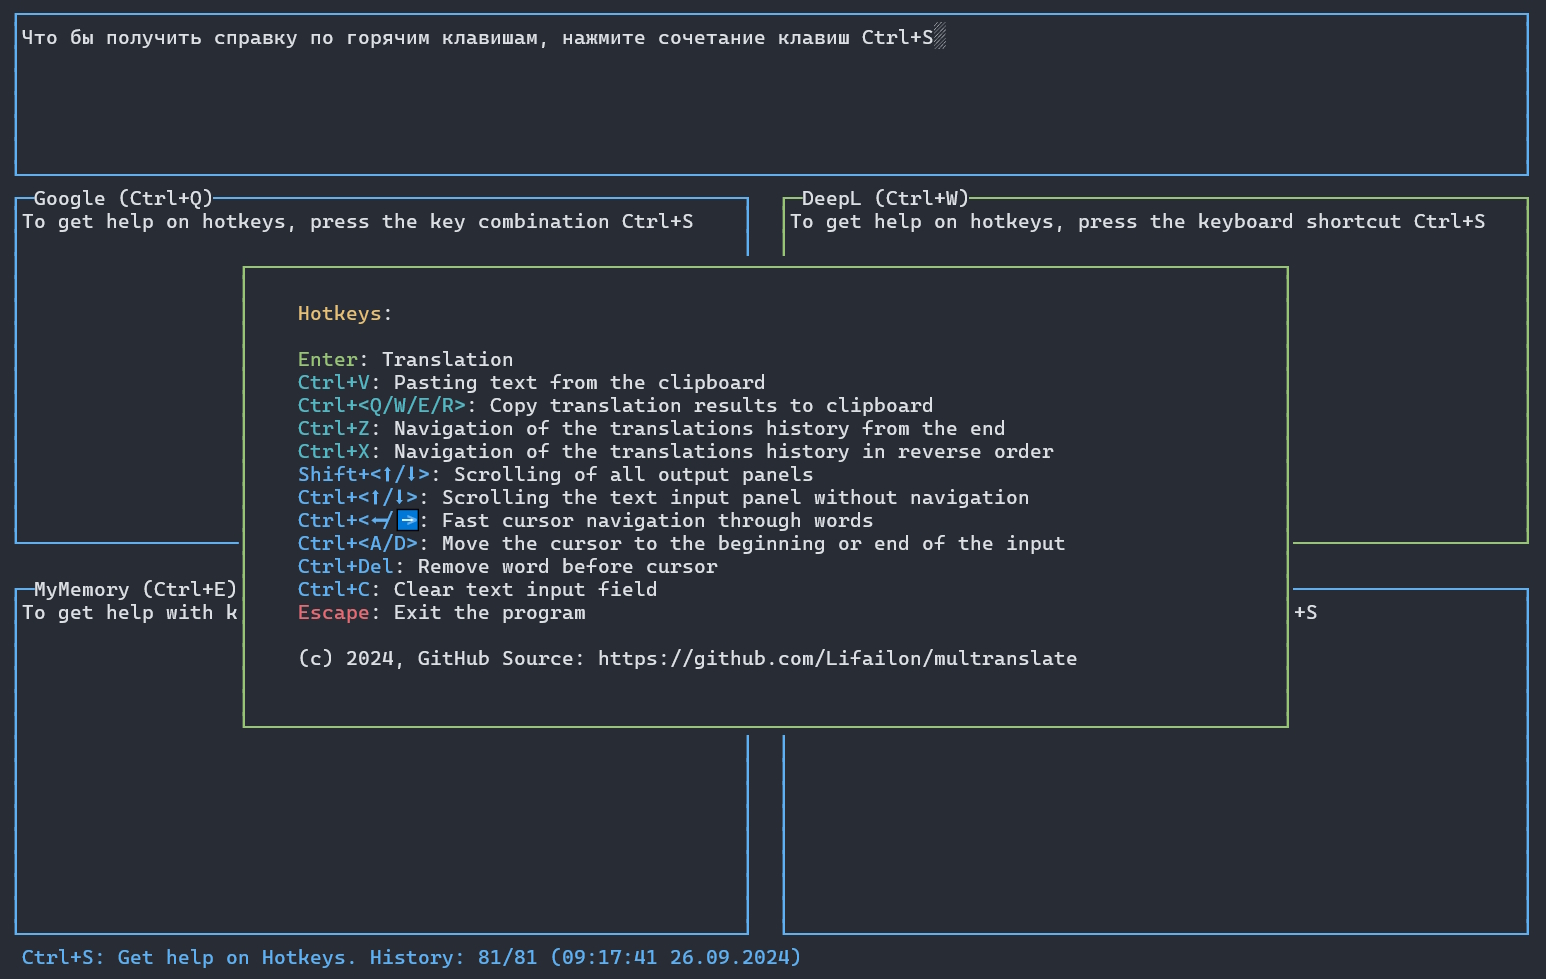
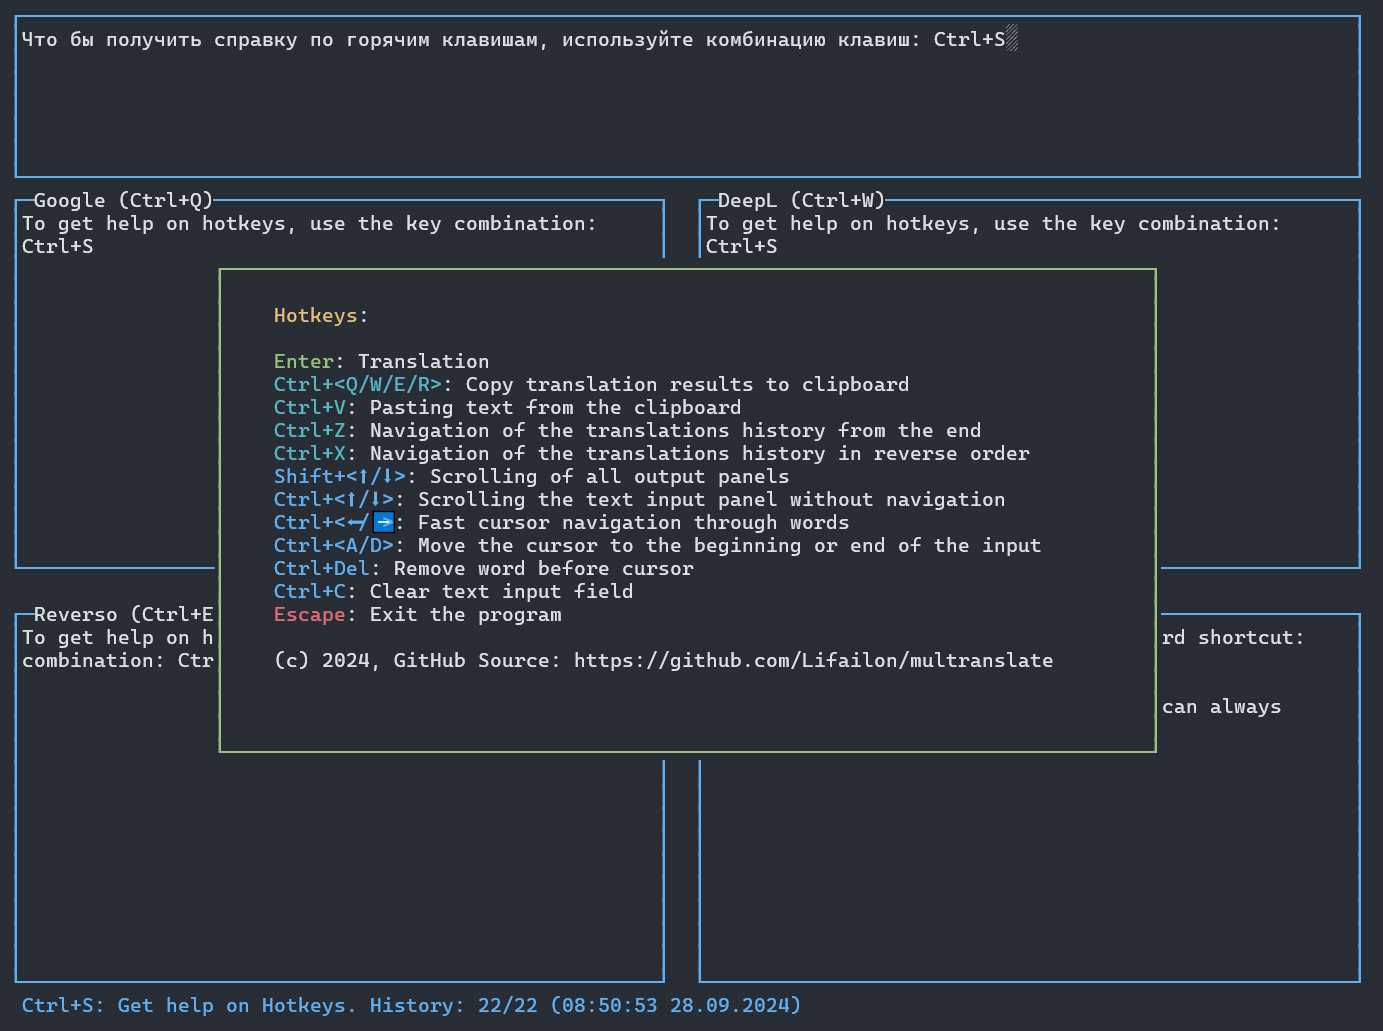
add clear history, trim for paste and alternatives for mymemory

Changed region(s): [[0.0, 0.0, 0.9949, 1.0]]

diff --git a/README_RU.md b/README_RU.md
@@ -12,18 +12,18 @@
  <a href="README.md">English</a> | <strong>Русский</strong>
 </h4>
 
-Терминальный пользовательский интерфейс (TUI) на базе библиотеки [Blessed](https://github.com/chjj/blessed) для одновременного перевода текста с использованием нескольких источников перевода. Все источники не требуют токена доступа или каких-либо настроек. Поддерживает **автоматическое определение исходного и целевого языка** на уровне кода между английским и русским и доступ к **истории переводов** через [SQLite](https://github.com/WiseLibs/better-sqlite3).
+Терминальный пользовательский интерфейс (TUI) на базе библиотеки [Blessed](https://github.com/chjj/blessed) для одновременного перевода текста с использованием нескольких источников перевода. Все источники не требуют токена доступа или других настроек. Поддерживает **автоматическое определение исходного и целевого языка** на уровне кода между английским и русским (по умолчанию) и доступ к **истории переводов** через [SQLite](https://github.com/WiseLibs/better-sqlite3) (до 500 запросов, после чего применяется автоматическая чистка старых значений из истории).
 
 ![interface](/image/interface.jpg)
 
 ## 📚 Источники перевода
 
-- Google через бесплатный и безлимитный [API](https://github.com/matheuss/google-translate-api) с использованием [serverless](https://github.com/olavoparno/translate-serverless-vercel), размещенный на Vercel.
-- [DeepLX](https://github.com/OwO-Network/DeepLX) - бесплатный [DeepL](https://deepl.com) API с использованием [serverless](https://github.com/LegendLeo/deeplx-serverless), размещенный на [Vercel](https://github.com/bropines/Deeplx-vercel).
-- [MyMemory](https://mymemory.translated.net/doc/spec.php) - бесплатный и открытый API (использование ограничено 5000 символами в день).
-- [Reverso](https://www.reverso.net) - бесплатный API (не содержит официальной документации, запрос был получен с официального сайта через *DevTools*).
+- [Google](https://translate.google.com) - бесплатный и безлимитный [API](https://github.com/vitalets/google-translate-api) с использованием [serverless](https://github.com/olavoparno/translate-serverless-vercel) размещенный на Vercel. Доступно для перевода более 5000 символов.
+- [DeepL](https://www.deepl.com) - бесплатный API через [DeepLX](https://github.com/OwO-Network/DeepLX) с использованием [serverless](https://github.com/LegendLeo/deeplx-serverless) размещенный на [Vercel](https://github.com/bropines/Deeplx-vercel). Присутствуют ограничения на частое количество запросов перевода, может иметь ограничения при использование большого количества символов (официальное ограничение в 5000 символов на запрос).
+- [Reverso](https://www.reverso.net) - самый стабильный, бесплатный и без ограничений на количество символов (версия на сайте ограничена 2000 символам и 900 через приложение, через `API` возможно получить до 8000). Не содержит официальной документации, запрос был получен с официального сайта через *DevTools*.
+- [MyMemory](https://mymemory.translated.net/doc/spec.php) - бесплатный и открытый API (ограничение в 500 символов на запрос). Поддверживает до 3 вариантов ответа для коротких запросов.
 
-> ⚠ **Reverso** не поддерживает работу через **Axios** (ошибка: `Invalid header value char`), вместо этого используется **Fetch**.
+> ⚠ **Reverso** не поддерживает работу через **Axios** (ошибка: `Invalid header value char`), вместо этого используется **Fetch**. По этой причине не получается упаковать пакет с помощью `pkg` без ошибок при запуске.
 
 ## 🚀 Установка
 
@@ -54,15 +54,9 @@ cd multranslate
 npm start
 ```
 
-Для отладки интерфейса:
-
-```shell
-npm run dev
-```
-
 ## 💡 Текстовый буфер
 
-Библиотека Blessed является устаревшей (более не поддерживается) и имеет ряд технических ограничений, например, навигация курсора в поле ввода текста. По этой причине был реализован механизм управления содержимым ввода через текстовый буфер, который позволяет использовать кастомный курсор для навигации с помощью стрелочек клавиатуры и автоматический скроллинг для пролистывания.
+Библиотека Blessed является устаревшей (более не поддерживается) и имеет ряд технических ограничений, например, отсутствует возможность навигации курсора в поле ввода текста. По этой причине был реализован механизм управления содержимым ввода через текстовый буфер, который позволяет использовать кастомный курсор для навигации с помощью стрелочек клавиатуры и автоматический скроллинг для пролистывания.
 
 Если вы планируете использовать данную библиотеку для схожих задач где требуется ввод текста, то добавьте в свой код `class TextBuffer` и управление корячими клавишами `keypress` через `inputBox.on()`.
 
@@ -70,9 +64,9 @@ npm run dev
 
 - `Enter`: используется каждый раз для перевода текста одновременно с переносом на новую строку.
 
-- `Ctrl+V`: вставка текста из буфера обмена (определено на уровне кода).
-
 - `Ctrl+<Q/W/E/R>`: копирования результатов перевода из форм вывода в буфер обмена (для каждого переводчика комбинация клавиш указана в скобках), при этом выбранная форма изменит свой цвет на зеленый.
+
+- `Ctrl+V`: вставка текста из буфера обмена (определено на уровне кода).
 
 - `Ctrl+Z`: Навигация по истории запросов на переводы с конца.
 

diff --git a/README.md b/README.md
@@ -12,18 +12,17 @@
     <strong>English</strong> | <a href="README_RU.md">Русский</a>
 </h4>
 
-A terminal user interface (TUI) based on the [Blessed](https://github.com/chjj/blessed) library for simultaneous text translation using multiple translation sources. All sources do not require an access token or any customization. Supports **automatic source and target language detection** at the code level between English and Russian and access to **translation history** via [SQLite](https://github.com/WiseLibs/better-sqlite3).
+A terminal user interface (TUI) based on the [Blessed](https://github.com/chjj/blessed) library for simultaneous text translation using multiple translation sources. All sources do not require an access token or other settings. Supports **automatic source and target language detection** at the code level between English and Russian (default) and access to **translation history** via [SQLite](https://github.com/WiseLibs/better-sqlite3) (up to 500 queries, after which an automatic cleaning of old values from the history is applied).
 
 ![interface](/image/interface.jpg)
 
 ## 📚 Translation providers
 
-- Google via free and unlimited [API](https://github.com/matheuss/google-translate-api) using [serverless](https://github.com/olavoparno/translate-serverless-vercel) hosted on Vercel.
-- [DeepLX](https://github.com/OwO-Network/DeepLX) - free [DeepL](https://deepl.com) API using [serverless](https://github.com/LegendLeo/deeplx-serverless) hosted on [Vercel](https://github.com/bropines/Deeplx-vercel).
-- [MyMemory](https://mymemory.translated.net/doc/spec.php) - free and open api (usage is limited to 5000 chars/day).
-- [Reverso](https://www.reverso.net) - free api (does not contain official documentation, request was received from official site through DevTools).
+- [Google](https://translate.google.com) - free and unlimited [API](https://github.com/vitalets/google-translate-api) using [serverless](https://github.com/olavoparno/translate-serverless-vercel) hosted on Vercel. Available for translation more than 5000 characters.
+- [DeepL](https://www.deepl.com) - free API via [DeepLX](https://github.com/OwO-Network/DeepLX) using [serverless](https://github.com/LegendLeo/deeplx-serverless) hosted on [Vercel](https://github.com/bropines/Deeplx-vercel). There are limitations on the number of frequent requests for translation, can have limitations when using a large number of - [Reverso](https://www.reverso.net) - the most stable, free and without any limitation on the number of characters (version on the site is limited to 2000 characters and 900 through the application, through the API can get up to 8000). Does not contain official documentation, request was received from official site via *DevTools*.characters (official limit of 5000 characters per request).
+- [MyMemory](https://mymemory.translated.net/doc/spec.php) - free and open API (limit of 500 characters per request). Supports up to 3 response options for short queries.
 
-> ⚠ **Reverso** does not support working via **Axios** (error: `Invalid header value char`), **Fetch** is used instead.
+> ⚠ **Reverso** does not support working via **Axios** (error: `Invalid header value char`), **Fetch** is used instead. For this reason, the package cannot be packaged with the 'pkg' without errors during startup.
 
 ## 🚀 Installation
 
@@ -54,15 +53,9 @@ Run the application:
 npm start
 ```
 
-To debug the interface:
-
-```shell
-npm run dev
-```
-
 ## 💡 Text buffer
 
-The Blessed library is deprecated (no longer supported) and has a number of technical limitations, such as cursor navigation in a text input field. For this reason, a mechanism for managing input text via text buffer has been implemented, which allows using a custom cursor for navigation using keyboard arrows and automatic scrolling for swiping.
+The Blessed library is outdated (no longer supported) and has a number of technical limitations, such as not being able to navigate the cursor in the input field. For this reason, a mechanism for managing input text via text buffer has been implemented, which allows using a custom cursor for navigation using keyboard arrows and automatic scrolling for swiping.
 
 If you plan to use this library for similar tasks where text input is required, then add `class TextBuffer` and control of `keypress` shortcuts to your code via `inputBox.on()`.
 
@@ -70,9 +63,9 @@ If you plan to use this library for similar tasks where text input is required, 
 
 - `Enter` - is used each time to translate the text simultaneously with moving to a new line.
 
-- `Ctrl+V` - paste text from the clipboard (defined at the code level).
-
 - `Ctrl+<Q/W/E/R>` - copying translation results from output forms to the clipboard (for each translator, the key combination is indicated in brackets), and the selected form will change its color to green.
+
+- `Ctrl+V` - paste text from the clipboard (defined at the code level).
 
 - `Ctrl+Z`: Navigate through the history of translation requests from the end.
 
